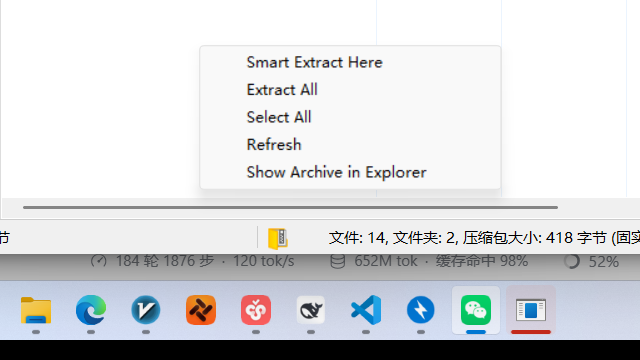
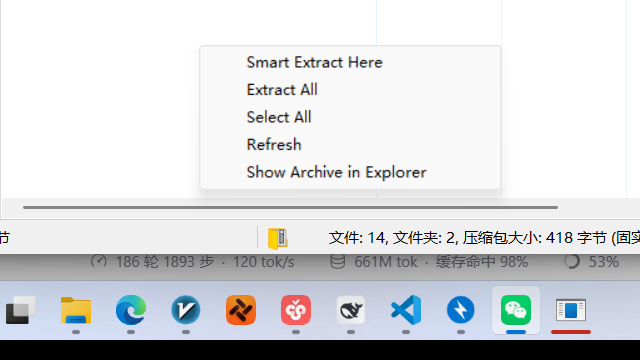
fix(c92): a right-click selects the row under the pointer, as Explorer and Bandizip do
WM_CONTEXTMENU now hit-tests first: a row outside the current selection becomes THE selection (so Open is no longer greyed on the file the user pointed at), a row already inside a multi-selection is left alone, and empty space / the sidebar never touch the selection.

Facts.archiveOpen now requires the window's archiveOpen_ bit AND a catalog, so a closed archive really greys the archive verbs (with a reason) instead of offering them.

Evidence: win.c92_input_menus asserts (1) unselected row -> Selection()==row and Open enabled, (2) Ctrl+A 3 rows -> right-click inside keeps all 3, (3) right-click empty space -> selection unchanged; new mutation.c92.no_preselect (PRISM_C92_MUTANT_NO_PRESELECT) prints C92 MUTATION CAUGHT: no_preselect at the first assertion. ctest -R c92: 5/5. Screenshots regenerated: the real popup now shows Open enabled.

diff --git a/Tests/win/test_c92_input_menus.cpp b/Tests/win/test_c92_input_menus.cpp
@@ -140,8 +140,11 @@ bool BuildFixture(Fixture& fixture) {
   fs::create_directories(fixture.dir.path() / L"folder", ec);
   if (!WriteText(fixture.dir.path() / L"folder" / L"inner.txt", "inner-bytes")) return false;
   if (!WriteText(fixture.dir.path() / L"alpha.txt", "alpha-bytes")) return false;
+  // A THIRD root row: the right-click preselection case needs a multi-selection
+  // big enough to prove a plain re-select would destroy it.
+  if (!WriteText(fixture.dir.path() / L"beta.txt", "beta-bytes")) return false;
   if (!prism::fixture::PackSolid(g_exePath, fixture.dir.wstr(), L"pack.7z",
-                                 {L"folder", L"alpha.txt"})) {
+                                 {L"folder", L"alpha.txt", L"beta.txt"})) {
     return false;
   }
   fixture.archive = (fixture.dir.path() / L"pack.7z").wstring();
@@ -276,7 +279,7 @@ PRISM_TEST("c92.posted_double_click_enters_folder_then_opens_file") {
   window.SetArchivePath(fixture.archive);
   window.Dispatch(WM_SIZE, 0, MAKELPARAM(1280, 800));
   if (!PRISM_CHECK_EQ(window.Folder(), std::string())) return;
-  if (!PRISM_CHECK_EQ(window.ItemCount(), 2)) return;
+  if (!PRISM_CHECK_EQ(window.ItemCount(), 3)) return;
 
   int openedIndex = -1;
   int openedCount = 0;
@@ -317,7 +320,7 @@ PRISM_TEST("c92.posted_double_click_enters_folder_then_opens_file") {
 
   // ---- Enter and double-click must reach the SAME open handler ------------
   if (!PRISM_CHECK(window.Back())) return;  // back to the archive root
-  if (!PRISM_CHECK_EQ(window.ItemCount(), 2)) return;
+  if (!PRISM_CHECK_EQ(window.ItemCount(), 3)) return;
   const int fileRow = RowOfPath(window, "alpha.txt");
   if (!PRISM_CHECK(fileRow >= 0)) return;
   int x = 0, y = 0;
@@ -384,15 +387,35 @@ PRISM_TEST("c92.context_menu_has_three_surfaces_with_distinct_ids") {
     seen.push_back(std::move(record));
   });
 
-  // Row surface: the point the window resolves to a row.
+  // ---- (1) nothing selected: right-click a row SELECTS it ------------------
+  // Explorer/Bandizip behaviour: the menu must describe the row under the
+  // pointer, otherwise "Open" is greyed on the very file the user pointed at.
   int rx = 0, ry = 0;
   if (!PRISM_CHECK(RowPoint(window, &rx, &ry))) return;
+  const int alphaRow = RowOfPath(window, "alpha.txt");
+  if (!PRISM_CHECK(alphaRow >= 0)) return;
+  PRISM_CHECK_EQ(window.SelectionCount(), 0);
   RightClickAt(window, rx, ry);
-  // Empty space: a point no row claims.
+  std::cout << "    [preselect] selection=" << window.Selection()
+            << " expected=" << alphaRow << " count=" << window.SelectionCount()
+            << std::endl;
+  PRISM_CHECK_EQ(window.Selection(), alphaRow);
+  PRISM_CHECK_EQ(window.SelectionCount(), 1);
+  if (!PRISM_CHECK_EQ(seen.size(), static_cast<std::size_t>(1))) return;
+  {
+    const prism::ctxmenu::Item* open =
+        seen[0].model.Find(prism::ctxmenu::Command::Open);
+    if (!PRISM_CHECK(open != nullptr)) return;
+    // The preselection is exactly what makes this read enabled.
+    PRISM_CHECK(open->enabled);
+  }
+
+  // ---- (3) empty space keeps the selection ---------------------------------
   int ex = 0, ey = 0;
   if (!PRISM_CHECK(EmptyPoint(window, &ex, &ey))) return;
   RightClickAt(window, ex, ey);
-  // Sidebar node: inside the painted rail.
+  PRISM_CHECK_EQ(window.Selection(), alphaRow);
+  // ... and a sidebar node keeps it too.
   int sx = 0, sy = 0;
   if (PRISM_CHECK(SidebarPoint(window, &sx, &sy))) {
     RightClickAt(window, sx, sy);
@@ -443,31 +466,50 @@ PRISM_TEST("c92.context_menu_has_three_surfaces_with_distinct_ids") {
   PRISM_CHECK(has(seen[2], prism::ctxmenu::Command::RevealArchive));
   PRISM_CHECK(has(seen[2], prism::ctxmenu::Command::CopyPath));
 
+  // ---- (2) a multi-selection survives a right-click INSIDE it --------------
+  // Ctrl+A selects all three root rows (folder + alpha.txt + beta.txt); a
+  // right-click on one of them must not collapse the set to that row.
+  prism::keys::Stroke selectAll;
+  selectAll.key = 'A';
+  selectAll.ctrl = true;
+  window.DispatchKeyStroke(selectAll);
+  if (!PRISM_CHECK_EQ(window.SelectionCount(), 3)) return;
+  const std::vector<int> selectionBefore = window.SelectedRows();
+  RightClickAt(window, rx, ry);  // alpha.txt is inside the set
+  std::cout << "    [preselect] multi kept=" << (window.SelectedRows() == selectionBefore)
+            << " count=" << window.SelectionCount() << std::endl;
+  PRISM_CHECK(window.SelectedRows() == selectionBefore);
+  PRISM_CHECK_EQ(window.SelectionCount(), 3);
+  if (!PRISM_CHECK(seen.size() >= 4)) return;
+  const SeenMenu multiRowMenu = seen.back();
+  PRISM_CHECK(multiRowMenu.surface == prism::ctxmenu::Surface::Row);
+
   // ---- a disabled item explains itself on the status line ------------------
-  const SeenMenu& rowMenu = seen[0];
-  const prism::ctxmenu::Item* open = rowMenu.model.Find(prism::ctxmenu::Command::Open);
-  if (!PRISM_CHECK(open != nullptr)) return;
-  if (!PRISM_CHECK(!open->enabled)) return;  // nothing is selected yet
-  const std::size_t slot = static_cast<std::size_t>(open - rowMenu.model.items.data());
-  const UINT openId = rowMenu.ids[slot];
-  PRISM_CHECK_EQ(rowMenu.model.items[slot].command, prism::ctxmenu::Command::Open);
-  window.Dispatch(WM_MENUSELECT, MAKEWPARAM(openId, MF_GRAYED), 0);
+  // Only the archive verbs can be greyed while an archive is open, so close the
+  // archive fact for this probe: the verbs stay VISIBLE with a reason.
+  window.SetArchiveOpen(false);
+  RightClickAt(window, ex, ey);
+  const SeenMenu& greyed = seen.back();
+  const prism::ctxmenu::Item* extractAll =
+      greyed.model.Find(prism::ctxmenu::Command::ExtractAll);
+  if (!PRISM_CHECK(extractAll != nullptr)) return;
+  if (!PRISM_CHECK(!extractAll->enabled)) return;
+  const std::size_t greyedSlot =
+      static_cast<std::size_t>(extractAll - greyed.model.items.data());
+  const UINT greyedId = greyed.ids[greyedSlot];
+  window.Dispatch(WM_MENUSELECT, MAKEWPARAM(greyedId, MF_GRAYED), 0);
   std::cout << "    [reason] " << prism::win::WideToUtf8(window.StatusText()) << std::endl;
-  PRISM_CHECK_EQ(prism::win::WideToUtf8(window.StatusText()), open->disabledReason);
+  PRISM_CHECK_EQ(prism::win::WideToUtf8(window.StatusText()), extractAll->disabledReason);
+  window.SetArchiveOpen(true);
 
   // ---- the chosen id runs the verb (the same switch TrackPopupMenu reaches) --
-  window.Dispatch(WM_LBUTTONDOWN, MK_LBUTTON, MAKELPARAM(rx, ry));
-  window.Dispatch(WM_LBUTTONUP, 0, MAKELPARAM(rx, ry));
-  RightClickAt(window, rx, ry);  // rebuild with a selection
-  if (!PRISM_CHECK(seen.size() >= 4)) return;
-  const SeenMenu& selectedRow = seen.back();
-  const prism::ctxmenu::Item* extract = selectedRow.model.Find(
-      prism::ctxmenu::Command::ExtractSelected);
+  const prism::ctxmenu::Item* extract =
+      multiRowMenu.model.Find(prism::ctxmenu::Command::ExtractSelected);
   if (!PRISM_CHECK(extract != nullptr)) return;
   PRISM_CHECK(extract->enabled);
   const std::size_t extractSlot =
-      static_cast<std::size_t>(extract - selectedRow.model.items.data());
-  const UINT extractId = selectedRow.ids[extractSlot];
+      static_cast<std::size_t>(extract - multiRowMenu.model.items.data());
+  const UINT extractId = multiRowMenu.ids[extractSlot];
 
   std::vector<prism::ctxmenu::Command> dispatched;
   window.SetContextCommandHandler([&dispatched](prism::ctxmenu::Command command) {
@@ -707,6 +749,12 @@ int main(int argc, char** argv) {
   std::cout << "C92 MUTANT ACTIVE: WM_CONTEXTMENU opens nothing" << std::endl;
   prism::test::SetMutationVerdict("C92 MUTATION CAUGHT: no_context",
                                   [] { return !GalleryWindow::ContextMenusEnabled(); });
+#endif
+#if defined(PRISM_C92_MUTANT_NO_PRESELECT)
+  std::cout << "C92 MUTANT ACTIVE: a right-click no longer selects the row under it"
+            << std::endl;
+  prism::test::SetMutationVerdict("C92 MUTATION CAUGHT: no_preselect",
+                                  [] { return !GalleryWindow::ContextPreselectsRow(); });
 #endif
   const int rc = prism::test::RunAll(argc, argv);
   ::CoUninitialize();

diff --git a/Src/PrismWin/GalleryWindow.hpp b/Src/PrismWin/GalleryWindow.hpp
@@ -224,6 +224,9 @@ inline constexpr bool kHudDismissOnFinish = true;
 //                                  never delivered and the handler is dead code.
 //   PRISM_C92_MUTANT_NO_CONTEXT  : WM_CONTEXTMENU / Shift+F10 stop opening a
 //                                  menu, i.e. the "right-click does nothing" bug.
+//   PRISM_C92_MUTANT_NO_PRESELECT: a right-click on an unselected row leaves the
+//                                  selection alone, so "Open" is greyed out on
+//                                  the row the user pointed at.
 // The suite builds each as its own executable and pins "C92 MUTATION CAUGHT: <arm>"
 // as the PASS regex (D26: never WILL_FAIL stacked on a regex).
 #if defined(PRISM_C92_MUTANT_NO_DBLCLKS)
@@ -235,6 +238,11 @@ inline constexpr bool kDoubleClicksDelivered = true;
 inline constexpr bool kContextMenusEnabled = false;
 #else
 inline constexpr bool kContextMenusEnabled = true;
+#endif
+#if defined(PRISM_C92_MUTANT_NO_PRESELECT)
+inline constexpr bool kContextPreselectsRow = false;
+#else
+inline constexpr bool kContextPreselectsRow = true;
 #endif
 #if defined(PRISM_C87_MUTANT_NO_PROGRESS_A11Y)
 inline constexpr bool kHudPublishedToA11y = false;
@@ -552,6 +560,7 @@ class GalleryWindow {
   // C92: the published rules, asked at runtime by the mutant verdicts.
   static constexpr bool DoubleClicksDelivered() { return kDoubleClicksDelivered; }
   static constexpr bool ContextMenusEnabled() { return kContextMenusEnabled; }
+  static constexpr bool ContextPreselectsRow() { return kContextPreselectsRow; }
   static constexpr bool AltChordEnabled() {
 #if defined(PRISM_C67_MUTANT_IGNORE_ALT)
     return false;
@@ -3660,7 +3669,9 @@ class GalleryWindow {
 
   prism::ctxmenu::Facts ContextFacts() const {
     prism::ctxmenu::Facts facts;
-    facts.archiveOpen = catalog_ != nullptr;
+    // archiveOpen_ is the window's own "an archive is open" bit (SetArchiveOpen);
+    // catalog_ is the rows. Both must hold for the archive verbs to be offered.
+    facts.archiveOpen = archiveOpen_ && catalog_ != nullptr;
     facts.rowCount = ItemCount();
     facts.hasSelection = !sel_.Empty();
     if (selection_ >= 0 && selection_ < ItemCount()) {
@@ -3679,6 +3690,28 @@ class GalleryWindow {
     if (sidebarRailVisible_ && SidebarContains(x, y)) return prism::ctxmenu::Surface::Sidebar;
     if (ItemAtPoint(x, y) >= 0) return prism::ctxmenu::Surface::Row;
     return prism::ctxmenu::Surface::Empty;
+  }
+
+  // C92 follow-up: a right-click on a row the user has NOT selected selects that
+  // row first, exactly like Explorer and Bandizip. Without it the first thing a
+  // user tries -- right-click a file, choose Open -- is greyed out, and the
+  // feature reads as broken.
+  //
+  // A row that is ALREADY in the selection is left alone: that is the multi-
+  // select case, where re-selecting would silently throw away the other rows.
+  // Empty space and the sidebar never reach this function at all, so a
+  // right-click on chrome cannot clear a selection.
+  void SelectRowUnderContextPoint(int x, int y) {
+    const int row = ItemAtPoint(x, y);
+    if (row < 0 || row >= ItemCount()) return;
+    for (int selected : sel_.Selected()) {
+      if (selected == row) return;  // inside the existing set: keep it
+    }
+    sel_.Click(row, prism::sel::ClickModifiers{});
+    selection_ = sel_.Empty() ? -1 : sel_.Focus();
+    nav_.SetSelection(selection_);
+    SyncActionContext();
+    Invalidate();
   }
 
   // Builds and shows the menu. The model is kept as lastContextMenu_ so a test
@@ -3704,6 +3737,14 @@ class GalleryWindow {
       clientY = point.y;
     }
     const prism::ctxmenu::Surface surface = ContextSurfaceAt(clientX, clientY);
+    // BEFORE the model is built: the menu's enabled state must describe the
+    // selection the user is about to act on. A right-click on empty space or a
+    // sidebar node never touches the selection (a click on chrome must not clear
+    // it). PRISM_C92_MUTANT_NO_PRESELECT compiles the row preselection out, so
+    // the "right-click an unselected row" assertion MUST go red (D3).
+    if (surface == prism::ctxmenu::Surface::Row && kContextPreselectsRow) {
+      SelectRowUnderContextPoint(clientX, clientY);
+    }
     const prism::ctxmenu::Menu model =
         prism::ctxmenu::Build(surface, ContextFacts(), ctxLabels_);
     lastContextMenu_ = model;
